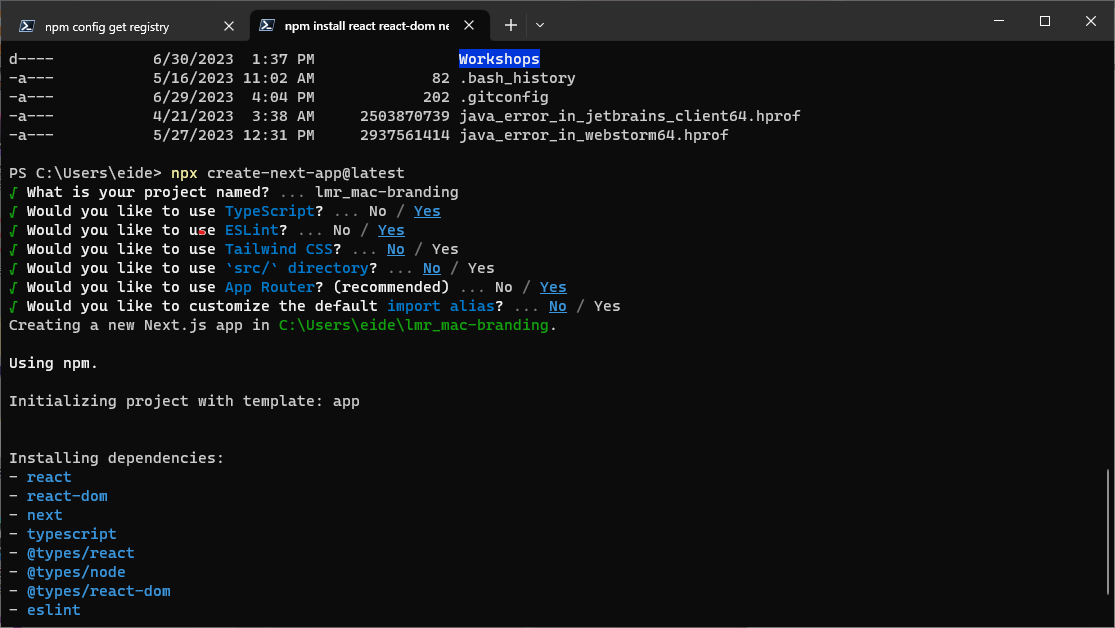
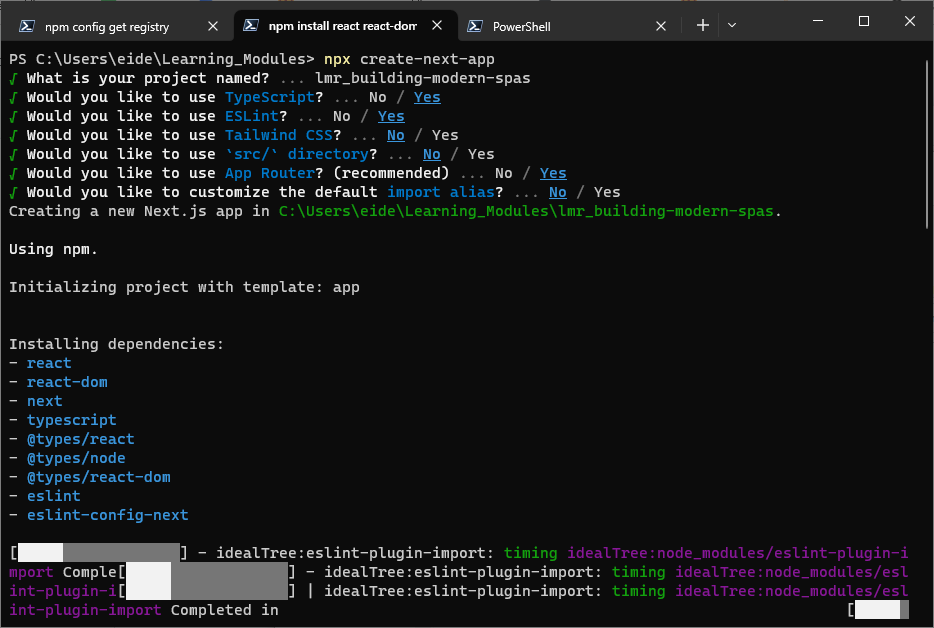
updated demo app name

Changed region(s): [[0.0, 0.0, 1.0, 1.0], [0.9625, 0.0303, 0.9936, 0.0605]]

diff --git a/conclusion.md b/conclusion.md
@@ -31,6 +31,6 @@ We recommend the following resources if you want to learn more about Next.js, Ma
 
 You can also use the [PageSpeed Insights](https://pagespeed.web.dev/) tool to assess your website in terms of performance, accessibility, best practices and SEO score. The tool can grade the mobile and desktop versions of your website. Please note that your website needs to be web accessible without the need for a VPN connection or login credentials for this tool to work. 
 
-The final version of this demo website is available on GitHub: [McMasterRS/lmr_mac-branding](https://github.com/McMasterRS/lmr_mac-branding).
+The final version of this demo website is available on GitHub: [McMasterRS/lmr_building-modern-spas](https://github.com/McMasterRS/lmr_building-modern-spas)
 
 If you require additional help with styling your McMaster website or if you happen to be using a different tech stack or framework that the ones covered in this learning module, please feel free to book a consultation with the Research Software Development team by emailing [rsd@mcmaster.ca](mailto:rsd@mcmaster.ca).

diff --git a/pre-module.md b/pre-module.md
@@ -58,7 +58,7 @@ You will need to pick a name for your application and specify a few preferences 
 ### Start the Development Server
 `cd` into the your project directory: 
 ~~~
-cd lmr_mac-branding
+cd lmr_building-modern-spas
 ~~~
 Start the development server:
 ~~~
@@ -170,7 +170,7 @@ Go back to your browser tab, the page should now look like this:
 ### Add the Material UI Library to Your Application
 Navigate to the your project's directory if you are not already in it: 
 ~~~
-cd lmr_mac-branding
+cd lmr_building-modern-spas
 ~~~
 
 Run the following command to add the MUI library to your project using the `npm` package manager: 
